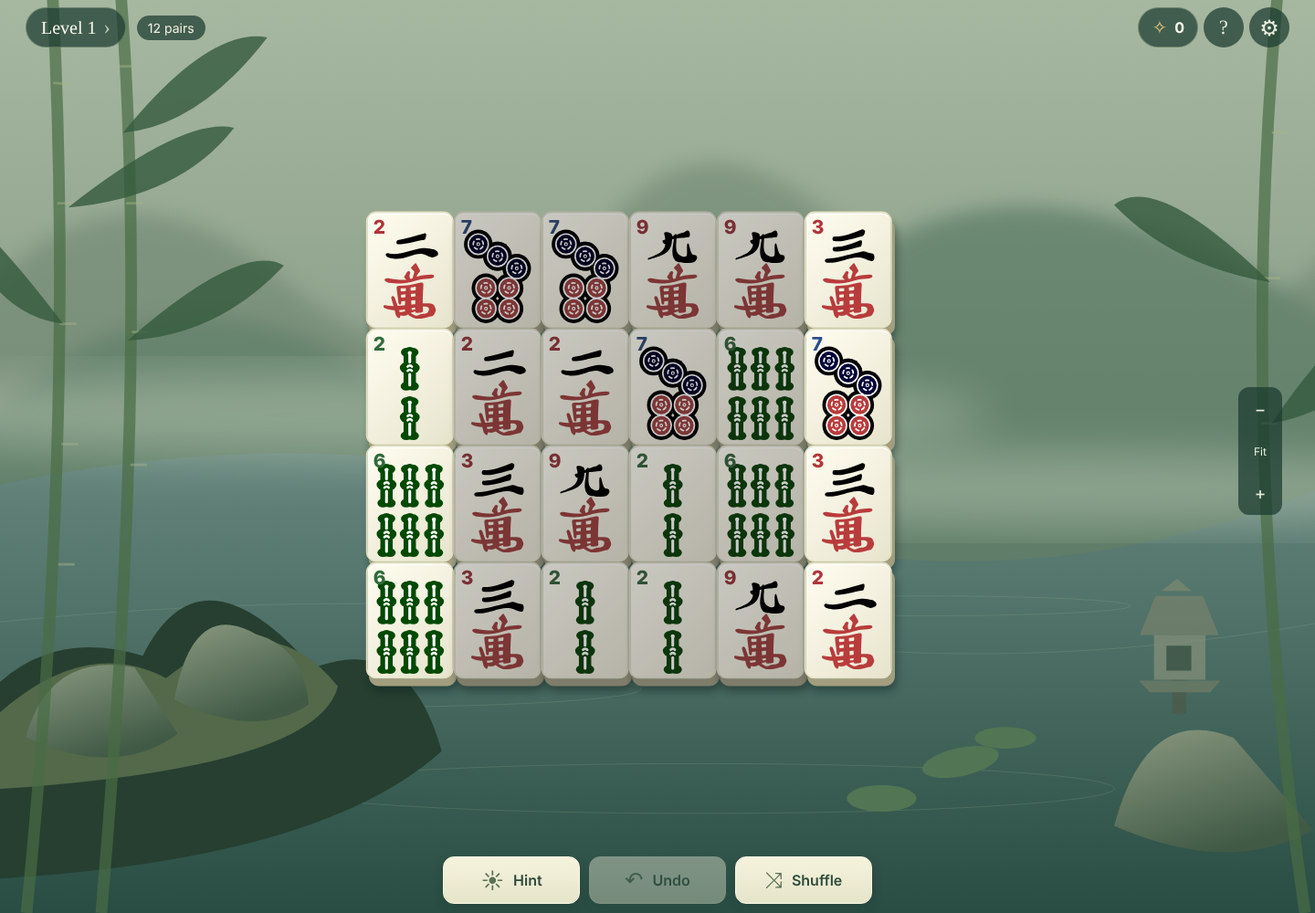
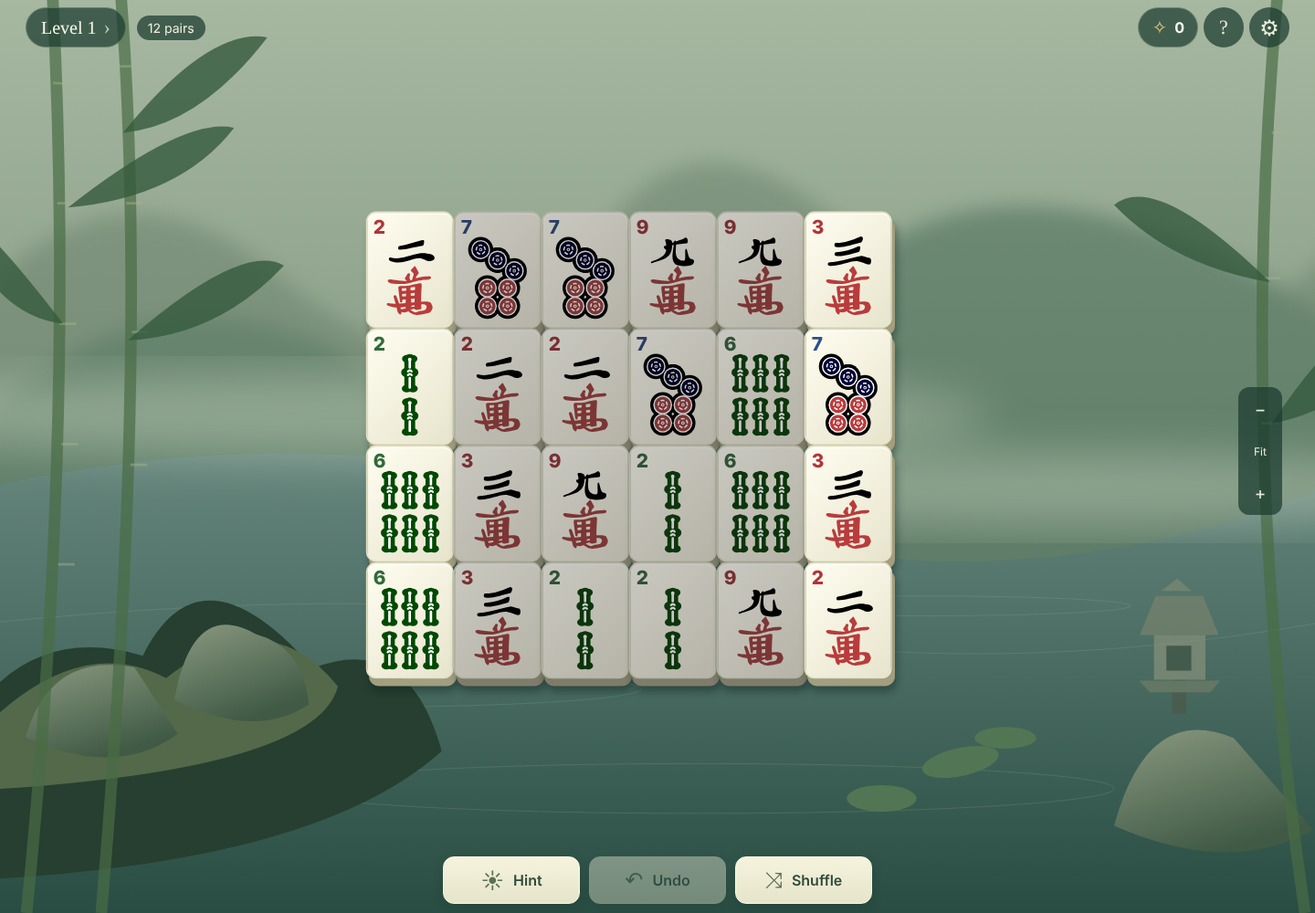
Stop the iOS top blur, silence audio on exit, shrink numbered tile art
- WebKit blurs the top of Home Screen apps unless an opaque fixed element
  touches the top edge. Add #ios-edge, a black strip continuing the
  opaque status bar, in standalone mode (not on landscape phones, which
  hide the status bar).
- Mute and suspend the AudioContext when the app is hidden or closed so
  iOS does not freeze it mid-stream (the buzz on exit); resume on return.
- Shrink the classic art on Numbered tiles so the corner index has room.

Claude-Session: https://claude.ai/code/session_01WmrVpek2mqVLjFRQ6SPrbG

Changed region(s): [[0.2812, 0.248, 0.6875, 0.744], [0.2812, 0.372, 0.3125, 0.403]]

diff --git a/dist/sw.js b/dist/sw.js
@@ -1,9 +1,9 @@
 /* Generated from the Offline Reliability Kit principles: one worker, verified atomic
    core, cache-first play, bounded network probes, explicit save-before-update. */
 const APP_ID = 'ls-majong';
-const BUILD_ID = '1.0.0-38df742cae7e5c21';
+const BUILD_ID = '1.0.0-661863b67c62a868';
 const VERSION = '1.0.0';
[2 lines of base64/hex data omitted]
 const PREFIX = `${APP_ID}-core-`;
 const CACHE = PREFIX + BUILD_ID;
 const clientBuilds = new Map();

diff --git a/dist/src/app.js b/dist/src/app.js
@@ -2,6 +2,8 @@ import {createGame,isFree,isMatch,findHint,matchPair,undo,reshuffle,remaining,sp
 import {loadSave,defaultSave,saveGame,exportBackup,importBackup,getStorageStatus,recoverSave,exportRawRecovery} from './storage.js';
 import {initOffline} from './offline.js';
 import {installGameInteractionProtection} from './interaction.js';
+// iOS blurs the top of Home Screen apps unless an opaque fixed element touches the top edge (see #ios-edge).
+if(navigator.standalone)document.documentElement.classList.add('ios-standalone');
 const $=s=>document.querySelector(s), app=$('#app'), world=$('#board-world'), viewport=$('#board-viewport'), modal=$('#modal');
 const VERSION=document.querySelector('meta[name="app-version"]')?.content||'1.0.0';
 let save=loadSave(), levels=[], layouts=[], layoutMap=new Map(), selected=null, hint=[], hintTimer, toastTimer, currentDialog='', ready=false, offlineMessage='Preparing offline play…',updateReady=false,offline;
@@ -21,6 +23,9 @@ const SFX=['select','match-1','match-2','match-3','match-4','shuffle'],sounds={}
 function audio(){if(audioCtx)return audioCtx;const C=window.AudioContext||window.webkitAudioContext;if(!C)return;try{if(navigator.audioSession)navigator.audioSession.type='ambient';}catch{}audioCtx=new C();sfxGain=audioCtx.createGain();musicGain=audioCtx.createGain();sfxGain.connect(audioCtx.destination);musicGain.connect(audioCtx.destination);volumes();for(const name of SFX)fetch(`./assets/sounds/${name}.m4a`).then(r=>r.arrayBuffer()).then(b=>audioCtx.decodeAudioData(b)).then(buf=>{sounds[name]=buf;}).catch(()=>{});return audioCtx;}
 function volumes(){if(!audioCtx)return;sfxGain.gain.value=opt('sound')?(opt('soundVolume')/100)**2:0;musicGain.gain.value=opt('music')?(opt('musicVolume')/100)**2*.7:0;}
 function music(){if(!opt('music')||!opt('musicVolume')||document.hidden){musicEl?.pause();return;}const ctx=audio();if(!ctx)return;ctx.resume().catch(()=>{});if(!musicEl){musicEl=new Audio('./assets/music/otjanbird-pt-ii.mp3');musicEl.loop=true;try{ctx.createMediaElementSource(musicEl).connect(musicGain);}catch{musicEl.volume=opt('musicVolume')/100;}}if(musicEl.paused)musicEl.play().catch(()=>{});}
+// Leaving the app mid-stream lets iOS freeze a running AudioContext, which buzzes; mute and suspend first.
+function quiet(){musicEl?.pause();if(!audioCtx)return;sfxGain.gain.value=0;musicGain.gain.value=0;audioCtx.suspend().catch(()=>{});}
+function wake(){if(!audioCtx)return;audioCtx.resume().catch(()=>{});volumes();music();}
 function play(name,gain=1,at=0,rate=1){const ctx=audio(),buf=sounds[name];if(!ctx||!buf)return;const src=ctx.createBufferSource(),vol=ctx.createGain();src.buffer=buf;src.playbackRate.value=rate;vol.gain.value=gain;src.connect(vol).connect(sfxGain);src.start(ctx.currentTime+at);}
 function sfx(cue){if(!opt('sound'))return;const ctx=audio();if(!ctx)return;ctx.resume().catch(()=>{});const r=()=>.96+Math.random()*.08,clack=()=>`match-${1+Math.floor(Math.random()*4)}`;if(cue==='select')play('select',1.6,0,r());else if(cue==='match')play(clack(),.8,0,r());else if(cue==='shuffle')play('shuffle',.7);else if(cue==='win')for(let i=0;i<4;i++)play(clack(),.6,.1+i*.28,r());}
 function levelFor(n){if(n<=levels.length)return levels[n-1];const choices=layouts.filter(l=>l.positions.length>=72&&l.positions.length<=144);const layout=choices[(n-levels.length-1)%choices.length];const seed=(Math.imul(n,2654435761)^0x6d2b79f5)>>>0;return {id:n,layoutId:layout.id,seed,difficulty:3,...generateDeal(layout,seed,3)};}
@@ -70,6 +75,6 @@ world.addEventListener('click',e=>{const t=e.target.closest('[data-tile]');if(t)
 addEventListener('pointerdown',()=>{if(opt('sound')||opt('music')){audio()?.resume().catch(()=>{});music();}},{capture:true});const pointers=new Map();viewport.addEventListener('pointerdown',e=>{if(e.button!==0)return;pointers.set(e.pointerId,{x:e.clientX,y:e.clientY});gesture={x:e.clientX,y:e.clientY,panX,panY,moved:false,zoom,distance:0};if(pointers.size===2){const [a,b]=[...pointers.values()];gesture.distance=Math.hypot(a.x-b.x,a.y-b.y);gesture.moved=true;ignoreClickUntil=performance.now()+400;}if(e.target===viewport||!e.target.closest('button'))viewport.setPointerCapture(e.pointerId);});
 viewport.addEventListener('pointermove',e=>{if(!pointers.has(e.pointerId)||!gesture)return;pointers.set(e.pointerId,{x:e.clientX,y:e.clientY});if(pointers.size===2){const [a,b]=[...pointers.values()];if(gesture.distance){setZoom(gesture.zoom*Math.hypot(a.x-b.x,a.y-b.y)/gesture.distance);gesture.moved=true;}}else if(zoom>1){const dx=e.clientX-gesture.x,dy=e.clientY-gesture.y;if(Math.hypot(dx,dy)>6){gesture.moved=true;panX=gesture.panX+dx;panY=gesture.panY+dy;transform();}}if(gesture.moved)ignoreClickUntil=performance.now()+400;});
 function endPointer(e){if(gesture?.moved)ignoreClickUntil=performance.now()+400;pointers.delete(e.pointerId);if(pointers.size===0)gesture=null;else if(gesture)gesture.moved=true;}
-window.addEventListener('pointerup',endPointer);window.addEventListener('pointercancel',endPointer);viewport.addEventListener('wheel',e=>{if(e.ctrlKey||e.metaKey){e.preventDefault();setZoom(zoom*(e.deltaY<0?1.1:.9));}},{passive:false});new ResizeObserver(resizeBoard).observe(viewport);document.addEventListener('visibilitychange',()=>{if(document.hidden)persist();music();});window.addEventListener('pagehide',persist);installGameInteractionProtection({root:app});
+window.addEventListener('pointerup',endPointer);window.addEventListener('pointercancel',endPointer);viewport.addEventListener('wheel',e=>{if(e.ctrlKey||e.metaKey){e.preventDefault();setZoom(zoom*(e.deltaY<0?1.1:.9));}},{passive:false});new ResizeObserver(resizeBoard).observe(viewport);document.addEventListener('visibilitychange',()=>{if(document.hidden){persist();quiet();}else wake();});window.addEventListener('pagehide',()=>{persist();quiet();});installGameInteractionProtection({root:app});
 async function fetchJSON(url){const controller=new AbortController(),timer=setTimeout(()=>controller.abort(),12000);try{const r=await fetch(url,{signal:controller.signal});if(!r.ok)throw Error(`Could not load ${url}`);return await r.json();}finally{clearTimeout(timer);}}
 (async()=>{try{const [ls,ly]=await Promise.all([fetchJSON('./data/levels.json'),fetchJSON('./data/layouts.json')]);levels=ls.levels;layouts=Array.isArray(ly)?ly:ly.layouts;layoutMap=new Map(layouts.map(l=>[l.id,l]));if(!levels?.length||!layouts?.length)throw Error('The level library is missing.');const recovered=getStorageStatus().pendingRecovery?await recoverSave():null;if(recovered)save=recovered;if(getStorageStatus().corrupt)throw Error('Saved progress could not be recovered automatically. Export recovery data or restore a backup.');if(!validateGameContent(save))throw Error('Your saved board needs recovery. Your progress has been preserved. Please restore a compatible backup.');if(!save.game){const l=levelFor(save.level);save.game={...createGame(l,layoutMap.get(l.layoutId)),level:save.level,completed:false};}ready=true;render();persist();if(getStorageStatus().recovered)toast(getStorageStatus().error||'Your progress was recovered from its extra save copy.');if(save.game.completed)winDialog();offline=initOffline({beforeReload:()=>{if(!persist())throw Error('Please export a backup before updating.');},onStatus:status=>{offlineMessage=status.message;const box=$('#offline-status');if(box)box.textContent=offlineMessage;},onUpdate:()=>{updateReady=true;if(currentDialog==='settings')settings();}});}catch(e){$('#loading').hidden=true;$('#board-world').innerHTML=`<div class="fatal"><h2>Couldn't load the game</h2><p>${esc(e.message)}</p><p>Your saves are untouched.</p><button id="retry-load">Try again</button><button id="emergency-backup">Export recovery data</button><button id="emergency-restore">Restore backup</button></div>`;world.style.cssText='position:static;transform:none;width:auto;height:auto';$('#retry-load').onclick=()=>location.reload();$('#emergency-backup').onclick=backup;$('#emergency-restore').onclick=()=>$('#restore-file').click();}})();

diff --git a/src/app.js b/src/app.js
@@ -2,6 +2,8 @@ import {createGame,isFree,isMatch,findHint,matchPair,undo,reshuffle,remaining,sp
 import {loadSave,defaultSave,saveGame,exportBackup,importBackup,getStorageStatus,recoverSave,exportRawRecovery} from './storage.js';
 import {initOffline} from './offline.js';
 import {installGameInteractionProtection} from './interaction.js';
+// iOS blurs the top of Home Screen apps unless an opaque fixed element touches the top edge (see #ios-edge).
+if(navigator.standalone)document.documentElement.classList.add('ios-standalone');
 const $=s=>document.querySelector(s), app=$('#app'), world=$('#board-world'), viewport=$('#board-viewport'), modal=$('#modal');
 const VERSION=document.querySelector('meta[name="app-version"]')?.content||'1.0.0';
 let save=loadSave(), levels=[], layouts=[], layoutMap=new Map(), selected=null, hint=[], hintTimer, toastTimer, currentDialog='', ready=false, offlineMessage='Preparing offline play…',updateReady=false,offline;
@@ -21,6 +23,9 @@ const SFX=['select','match-1','match-2','match-3','match-4','shuffle'],sounds={}
 function audio(){if(audioCtx)return audioCtx;const C=window.AudioContext||window.webkitAudioContext;if(!C)return;try{if(navigator.audioSession)navigator.audioSession.type='ambient';}catch{}audioCtx=new C();sfxGain=audioCtx.createGain();musicGain=audioCtx.createGain();sfxGain.connect(audioCtx.destination);musicGain.connect(audioCtx.destination);volumes();for(const name of SFX)fetch(`./assets/sounds/${name}.m4a`).then(r=>r.arrayBuffer()).then(b=>audioCtx.decodeAudioData(b)).then(buf=>{sounds[name]=buf;}).catch(()=>{});return audioCtx;}
 function volumes(){if(!audioCtx)return;sfxGain.gain.value=opt('sound')?(opt('soundVolume')/100)**2:0;musicGain.gain.value=opt('music')?(opt('musicVolume')/100)**2*.7:0;}
 function music(){if(!opt('music')||!opt('musicVolume')||document.hidden){musicEl?.pause();return;}const ctx=audio();if(!ctx)return;ctx.resume().catch(()=>{});if(!musicEl){musicEl=new Audio('./assets/music/otjanbird-pt-ii.mp3');musicEl.loop=true;try{ctx.createMediaElementSource(musicEl).connect(musicGain);}catch{musicEl.volume=opt('musicVolume')/100;}}if(musicEl.paused)musicEl.play().catch(()=>{});}
+// Leaving the app mid-stream lets iOS freeze a running AudioContext, which buzzes; mute and suspend first.
+function quiet(){musicEl?.pause();if(!audioCtx)return;sfxGain.gain.value=0;musicGain.gain.value=0;audioCtx.suspend().catch(()=>{});}
+function wake(){if(!audioCtx)return;audioCtx.resume().catch(()=>{});volumes();music();}
 function play(name,gain=1,at=0,rate=1){const ctx=audio(),buf=sounds[name];if(!ctx||!buf)return;const src=ctx.createBufferSource(),vol=ctx.createGain();src.buffer=buf;src.playbackRate.value=rate;vol.gain.value=gain;src.connect(vol).connect(sfxGain);src.start(ctx.currentTime+at);}
 function sfx(cue){if(!opt('sound'))return;const ctx=audio();if(!ctx)return;ctx.resume().catch(()=>{});const r=()=>.96+Math.random()*.08,clack=()=>`match-${1+Math.floor(Math.random()*4)}`;if(cue==='select')play('select',1.6,0,r());else if(cue==='match')play(clack(),.8,0,r());else if(cue==='shuffle')play('shuffle',.7);else if(cue==='win')for(let i=0;i<4;i++)play(clack(),.6,.1+i*.28,r());}
 function levelFor(n){if(n<=levels.length)return levels[n-1];const choices=layouts.filter(l=>l.positions.length>=72&&l.positions.length<=144);const layout=choices[(n-levels.length-1)%choices.length];const seed=(Math.imul(n,2654435761)^0x6d2b79f5)>>>0;return {id:n,layoutId:layout.id,seed,difficulty:3,...generateDeal(layout,seed,3)};}
@@ -70,6 +75,6 @@ world.addEventListener('click',e=>{const t=e.target.closest('[data-tile]');if(t)
 addEventListener('pointerdown',()=>{if(opt('sound')||opt('music')){audio()?.resume().catch(()=>{});music();}},{capture:true});const pointers=new Map();viewport.addEventListener('pointerdown',e=>{if(e.button!==0)return;pointers.set(e.pointerId,{x:e.clientX,y:e.clientY});gesture={x:e.clientX,y:e.clientY,panX,panY,moved:false,zoom,distance:0};if(pointers.size===2){const [a,b]=[...pointers.values()];gesture.distance=Math.hypot(a.x-b.x,a.y-b.y);gesture.moved=true;ignoreClickUntil=performance.now()+400;}if(e.target===viewport||!e.target.closest('button'))viewport.setPointerCapture(e.pointerId);});
 viewport.addEventListener('pointermove',e=>{if(!pointers.has(e.pointerId)||!gesture)return;pointers.set(e.pointerId,{x:e.clientX,y:e.clientY});if(pointers.size===2){const [a,b]=[...pointers.values()];if(gesture.distance){setZoom(gesture.zoom*Math.hypot(a.x-b.x,a.y-b.y)/gesture.distance);gesture.moved=true;}}else if(zoom>1){const dx=e.clientX-gesture.x,dy=e.clientY-gesture.y;if(Math.hypot(dx,dy)>6){gesture.moved=true;panX=gesture.panX+dx;panY=gesture.panY+dy;transform();}}if(gesture.moved)ignoreClickUntil=performance.now()+400;});
 function endPointer(e){if(gesture?.moved)ignoreClickUntil=performance.now()+400;pointers.delete(e.pointerId);if(pointers.size===0)gesture=null;else if(gesture)gesture.moved=true;}
-window.addEventListener('pointerup',endPointer);window.addEventListener('pointercancel',endPointer);viewport.addEventListener('wheel',e=>{if(e.ctrlKey||e.metaKey){e.preventDefault();setZoom(zoom*(e.deltaY<0?1.1:.9));}},{passive:false});new ResizeObserver(resizeBoard).observe(viewport);document.addEventListener('visibilitychange',()=>{if(document.hidden)persist();music();});window.addEventListener('pagehide',persist);installGameInteractionProtection({root:app});
+window.addEventListener('pointerup',endPointer);window.addEventListener('pointercancel',endPointer);viewport.addEventListener('wheel',e=>{if(e.ctrlKey||e.metaKey){e.preventDefault();setZoom(zoom*(e.deltaY<0?1.1:.9));}},{passive:false});new ResizeObserver(resizeBoard).observe(viewport);document.addEventListener('visibilitychange',()=>{if(document.hidden){persist();quiet();}else wake();});window.addEventListener('pagehide',()=>{persist();quiet();});installGameInteractionProtection({root:app});
 async function fetchJSON(url){const controller=new AbortController(),timer=setTimeout(()=>controller.abort(),12000);try{const r=await fetch(url,{signal:controller.signal});if(!r.ok)throw Error(`Could not load ${url}`);return await r.json();}finally{clearTimeout(timer);}}
 (async()=>{try{const [ls,ly]=await Promise.all([fetchJSON('./data/levels.json'),fetchJSON('./data/layouts.json')]);levels=ls.levels;layouts=Array.isArray(ly)?ly:ly.layouts;layoutMap=new Map(layouts.map(l=>[l.id,l]));if(!levels?.length||!layouts?.length)throw Error('The level library is missing.');const recovered=getStorageStatus().pendingRecovery?await recoverSave():null;if(recovered)save=recovered;if(getStorageStatus().corrupt)throw Error('Saved progress could not be recovered automatically. Export recovery data or restore a backup.');if(!validateGameContent(save))throw Error('Your saved board needs recovery. Your progress has been preserved. Please restore a compatible backup.');if(!save.game){const l=levelFor(save.level);save.game={...createGame(l,layoutMap.get(l.layoutId)),level:save.level,completed:false};}ready=true;render();persist();if(getStorageStatus().recovered)toast(getStorageStatus().error||'Your progress was recovered from its extra save copy.');if(save.game.completed)winDialog();offline=initOffline({beforeReload:()=>{if(!persist())throw Error('Please export a backup before updating.');},onStatus:status=>{offlineMessage=status.message;const box=$('#offline-status');if(box)box.textContent=offlineMessage;},onUpdate:()=>{updateReady=true;if(currentDialog==='settings')settings();}});}catch(e){$('#loading').hidden=true;$('#board-world').innerHTML=`<div class="fatal"><h2>Couldn't load the game</h2><p>${esc(e.message)}</p><p>Your saves are untouched.</p><button id="retry-load">Try again</button><button id="emergency-backup">Export recovery data</button><button id="emergency-restore">Restore backup</button></div>`;world.style.cssText='position:static;transform:none;width:auto;height:auto';$('#retry-load').onclick=()=>location.reload();$('#emergency-backup').onclick=backup;$('#emergency-restore').onclick=()=>$('#restore-file').click();}})();

diff --git a/dist/styles/game.css b/dist/styles/game.css
@@ -4,10 +4,15 @@
 @media(prefers-reduced-motion:reduce){*,*:before,*:after{animation:none!important;transition:none!important}.tile.matched{display:none}}
 .setting-row{min-height:57px}.setting-row input[type=checkbox]{min-height:28px}.setting-row:has(input){cursor:pointer}
 @media(orientation:portrait){.garden-scene{background-image:url('../assets/garden-portrait.svg')}}
-/* iOS 26+ draws a blur under the status bar of Home Screen apps; keep the top bar clear of it. */
-@supports(-webkit-touch-callout:none){@media(display-mode:standalone){#app{padding-top:calc(env(safe-area-inset-top,0px) + 14px)}}}
+/* iOS 26+ blurs the top of Home Screen apps unless WebKit finds an opaque fixed element on the top edge.
+   #ios-edge is that element, painted black to continue the opaque status bar; the top bar sits below it. */
+#ios-edge{display:none}
+@supports(-webkit-touch-callout:none){@media(display-mode:standalone){#ios-edge{display:block}#app{padding-top:calc(env(safe-area-inset-top,0px) + 14px)}}}
+.ios-standalone #ios-edge{display:block}.ios-standalone #app{padding-top:calc(env(safe-area-inset-top,0px) + 14px)}
+#ios-edge{position:fixed;top:0;left:0;right:0;height:max(env(safe-area-inset-top,0px),10px);background:#000;z-index:2147483000;pointer-events:none}
 .audio-row>span{min-width:64px}.audio-row input[type=range]{flex:1;min-width:80px;height:44px;accent-color:#436b4d;cursor:pointer}
 .segmented{display:flex;gap:2px;padding:3px;border-radius:12px;background:#e3e6d5}.segmented button{min-height:44px;padding:6px 12px;border-radius:9px;background:transparent;color:#435e3e;font-size:14px}.segmented button.active{background:#385d46;color:#fffdf0}
-.tile .idx{position:absolute;left:4px;top:3px;font:800 13px/1 ui-rounded,system-ui,sans-serif;color:#2c4f8f;pointer-events:none}.tile .idx.char{color:#b2343a}.tile .idx.bamboo{color:#2f6b3a}.tile .idx.wind{color:#22302a}.tile:has(.idx) img{width:84%;height:84%;margin:14% auto 0}
+.tile .idx{position:absolute;left:4px;top:3px;font:800 13px/1 ui-rounded,system-ui,sans-serif;color:#2c4f8f;pointer-events:none}.tile .idx.char{color:#b2343a}.tile .idx.bamboo{color:#2f6b3a}.tile .idx.wind{color:#22302a}.tile:has(.idx) img{width:74%;height:74%;margin:20% auto 0}
 .tile .picture{display:grid;place-items:center;height:100%;font:40px/1 "Apple Color Emoji","Segoe UI Emoji","Noto Color Emoji",sans-serif;pointer-events:none}
 @media(max-width:420px){.audio-row>span{min-width:56px}.segmented button{padding:6px 8px;font-size:13px}}
+@media(orientation:landscape) and (max-height:500px){#ios-edge{display:none!important}.ios-standalone #app,#app{padding-top:env(safe-area-inset-top,0px)!important}}

diff --git a/styles/game.css b/styles/game.css
@@ -4,10 +4,15 @@
 @media(prefers-reduced-motion:reduce){*,*:before,*:after{animation:none!important;transition:none!important}.tile.matched{display:none}}
 .setting-row{min-height:57px}.setting-row input[type=checkbox]{min-height:28px}.setting-row:has(input){cursor:pointer}
 @media(orientation:portrait){.garden-scene{background-image:url('../assets/garden-portrait.svg')}}
-/* iOS 26+ draws a blur under the status bar of Home Screen apps; keep the top bar clear of it. */
-@supports(-webkit-touch-callout:none){@media(display-mode:standalone){#app{padding-top:calc(env(safe-area-inset-top,0px) + 14px)}}}
+/* iOS 26+ blurs the top of Home Screen apps unless WebKit finds an opaque fixed element on the top edge.
+   #ios-edge is that element, painted black to continue the opaque status bar; the top bar sits below it. */
+#ios-edge{display:none}
+@supports(-webkit-touch-callout:none){@media(display-mode:standalone){#ios-edge{display:block}#app{padding-top:calc(env(safe-area-inset-top,0px) + 14px)}}}
+.ios-standalone #ios-edge{display:block}.ios-standalone #app{padding-top:calc(env(safe-area-inset-top,0px) + 14px)}
+#ios-edge{position:fixed;top:0;left:0;right:0;height:max(env(safe-area-inset-top,0px),10px);background:#000;z-index:2147483000;pointer-events:none}
 .audio-row>span{min-width:64px}.audio-row input[type=range]{flex:1;min-width:80px;height:44px;accent-color:#436b4d;cursor:pointer}
 .segmented{display:flex;gap:2px;padding:3px;border-radius:12px;background:#e3e6d5}.segmented button{min-height:44px;padding:6px 12px;border-radius:9px;background:transparent;color:#435e3e;font-size:14px}.segmented button.active{background:#385d46;color:#fffdf0}
-.tile .idx{position:absolute;left:4px;top:3px;font:800 13px/1 ui-rounded,system-ui,sans-serif;color:#2c4f8f;pointer-events:none}.tile .idx.char{color:#b2343a}.tile .idx.bamboo{color:#2f6b3a}.tile .idx.wind{color:#22302a}.tile:has(.idx) img{width:84%;height:84%;margin:14% auto 0}
+.tile .idx{position:absolute;left:4px;top:3px;font:800 13px/1 ui-rounded,system-ui,sans-serif;color:#2c4f8f;pointer-events:none}.tile .idx.char{color:#b2343a}.tile .idx.bamboo{color:#2f6b3a}.tile .idx.wind{color:#22302a}.tile:has(.idx) img{width:74%;height:74%;margin:20% auto 0}
 .tile .picture{display:grid;place-items:center;height:100%;font:40px/1 "Apple Color Emoji","Segoe UI Emoji","Noto Color Emoji",sans-serif;pointer-events:none}
 @media(max-width:420px){.audio-row>span{min-width:56px}.segmented button{padding:6px 8px;font-size:13px}}
+@media(orientation:landscape) and (max-height:500px){#ios-edge{display:none!important}.ios-standalone #app,#app{padding-top:env(safe-area-inset-top,0px)!important}}

diff --git a/dist/index.html b/dist/index.html
@@ -1,6 +1,6 @@
 <!doctype html>
-<html lang="en"><head><meta charset="utf-8"><meta name="viewport" content="width=device-width, initial-scale=1, viewport-fit=cover"><meta name="theme-color" content="#233f36"><meta name="apple-mobile-web-app-capable" content="yes"><meta name="apple-mobile-web-app-status-bar-style" content="black"><meta name="apple-mobile-web-app-title" content="L's Majong"><meta name="description" content="Ad-free, offline Mahjong Solitaire."><link rel="manifest" href="./manifest.webmanifest"><link rel="apple-touch-icon" href="./icons/apple-touch-icon.png"><link rel="icon" type="image/svg+xml" href="./icons/icon.svg"><link rel="stylesheet" href="./styles/game.css"><title>L's Majong</title><meta name="app-build" content="1.0.0-38df742cae7e5c21"><meta name="app-version" content="1.0.0">
-</head><body>
+<html lang="en"><head><meta charset="utf-8"><meta name="viewport" content="width=device-width, initial-scale=1, viewport-fit=cover"><meta name="theme-color" content="#233f36"><meta name="apple-mobile-web-app-capable" content="yes"><meta name="apple-mobile-web-app-status-bar-style" content="black"><meta name="apple-mobile-web-app-title" content="L's Majong"><meta name="description" content="Ad-free, offline Mahjong Solitaire."><link rel="manifest" href="./manifest.webmanifest"><link rel="apple-touch-icon" href="./icons/apple-touch-icon.png"><link rel="icon" type="image/svg+xml" href="./icons/icon.svg"><link rel="stylesheet" href="./styles/game.css"><title>L's Majong</title><meta name="app-build" content="1.0.0-661863b67c62a868"><meta name="app-version" content="1.0.0">
+</head><body><div id="ios-edge" aria-hidden="true"></div>
 <div id="app" data-background="mist" data-board="sage" data-tile="ivory">
 <div class="garden-scene" aria-hidden="true"></div>
 <header class="topbar"><button id="journey-button" class="level-pill" aria-label="Levels"><span id="board-level">Level 1</span><span aria-hidden="true">›</span></button><span id="pairs-left" class="pairs-left"></span><span id="save-indicator" class="save-indicator" hidden></span><div class="header-actions"><button id="garden-button" class="coin-pill" aria-label="Garden shop"><span aria-hidden="true">✧</span><b id="coins">0</b></button><button id="help-button" class="icon-button" aria-label="How to play"><span aria-hidden="true">?</span></button><button id="settings-button" class="icon-button" aria-label="Settings"><span aria-hidden="true">⚙</span></button></div></header>

diff --git a/index.html b/index.html
@@ -1,5 +1,5 @@
 <!doctype html>
-<html lang="en"><head><meta charset="utf-8"><meta name="viewport" content="width=device-width, initial-scale=1, viewport-fit=cover"><meta name="theme-color" content="#233f36"><meta name="apple-mobile-web-app-capable" content="yes"><meta name="apple-mobile-web-app-status-bar-style" content="black"><meta name="apple-mobile-web-app-title" content="L's Majong"><meta name="description" content="Ad-free, offline Mahjong Solitaire."><link rel="manifest" href="./manifest.webmanifest"><link rel="apple-touch-icon" href="./icons/apple-touch-icon.png"><link rel="icon" type="image/svg+xml" href="./icons/icon.svg"><link rel="stylesheet" href="./styles/game.css"><title>L's Majong</title></head><body>
+<html lang="en"><head><meta charset="utf-8"><meta name="viewport" content="width=device-width, initial-scale=1, viewport-fit=cover"><meta name="theme-color" content="#233f36"><meta name="apple-mobile-web-app-capable" content="yes"><meta name="apple-mobile-web-app-status-bar-style" content="black"><meta name="apple-mobile-web-app-title" content="L's Majong"><meta name="description" content="Ad-free, offline Mahjong Solitaire."><link rel="manifest" href="./manifest.webmanifest"><link rel="apple-touch-icon" href="./icons/apple-touch-icon.png"><link rel="icon" type="image/svg+xml" href="./icons/icon.svg"><link rel="stylesheet" href="./styles/game.css"><title>L's Majong</title></head><body><div id="ios-edge" aria-hidden="true"></div>
 <div id="app" data-background="mist" data-board="sage" data-tile="ivory">
 <div class="garden-scene" aria-hidden="true"></div>
 <header class="topbar"><button id="journey-button" class="level-pill" aria-label="Levels"><span id="board-level">Level 1</span><span aria-hidden="true">›</span></button><span id="pairs-left" class="pairs-left"></span><span id="save-indicator" class="save-indicator" hidden></span><div class="header-actions"><button id="garden-button" class="coin-pill" aria-label="Garden shop"><span aria-hidden="true">✧</span><b id="coins">0</b></button><button id="help-button" class="icon-button" aria-label="How to play"><span aria-hidden="true">?</span></button><button id="settings-button" class="icon-button" aria-label="Settings"><span aria-hidden="true">⚙</span></button></div></header>
